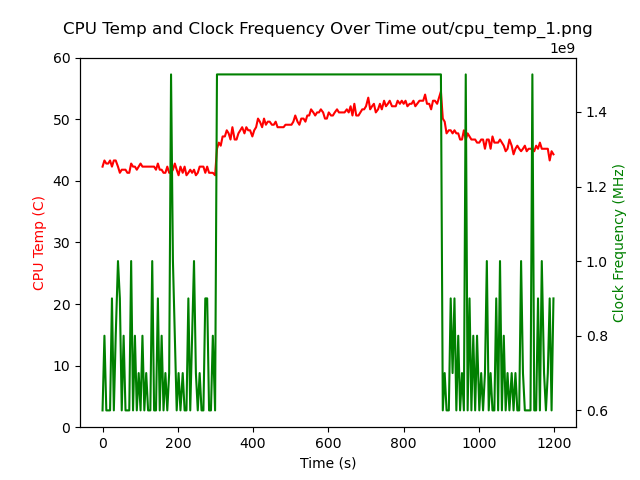
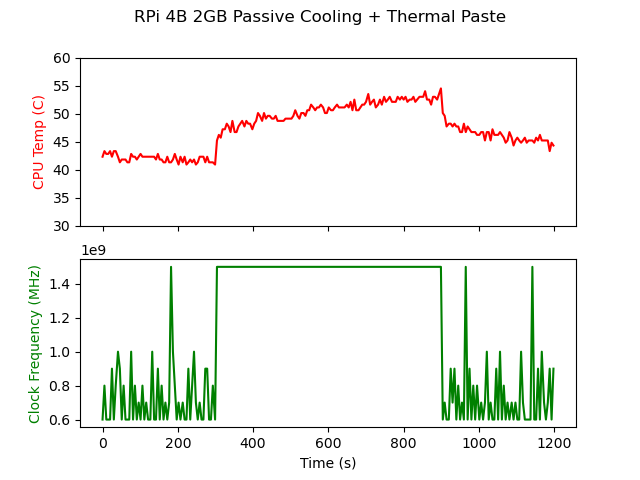
feat: update metrics display

diff --git a/src/analyzer.py b/src/analyzer.py
@@ -29,14 +29,21 @@ class Analyzer:
         cpu_temp: np.ndarray,
         clock_freq: np.ndarray,
     ):
-        fig, ax1 = plt.subplots()
-        ax2 = ax1.twinx()
-        ax1.plot(time_delta, cpu_temp, color="red")
-        ax2.plot(time_delta, clock_freq, color="green")
-        ax1.set_ylim([0, 60])
-        ax1.set_xlabel("Time (s)")
-        ax1.set_ylabel("CPU Temp (C)", color="red")
-        ax2.set_ylabel("Clock Frequency (MHz)", color="green")
-        plt.title(f"CPU Temp and Clock Frequency Over Time {filename}")
+        fig, ax = plt.subplots(nrows=2, ncols=1, sharex=True)
+
+        ax[0].plot(time_delta, cpu_temp, color="red")
+        ax[0].set_ylim([30, 60])
+        ax[0].set_ylabel("CPU Temp (C)", color="red")
+
+        ax[1].plot(time_delta, clock_freq, color="green")
+        ax[1].set_ylabel("Clock Frequency (MHz)", color="green")
+        ax[1].set_xlabel("Time (s)")
+
+        title = (
+            "RPi 4B 2GB Passive Cooling + Thermal Paste"
+            if "cpu_temp_1" in filename
+            else "RPi 4B 4GB Active Cooling + Thermal Pads"
+        )
+        fig.suptitle(title)
         plt.savefig(filename)
         plt.close()

diff --git a/README.md b/README.md
@@ -8,7 +8,7 @@ Benchmarking passively and actively cooled Raspberry Pis with automated analytic
 
 ```
 Raspberry Pi 4 Model B 2GB
-Armor Heatsink Case
+Armor Passive Heatsink Case
 Thermal paste
 ```
 
